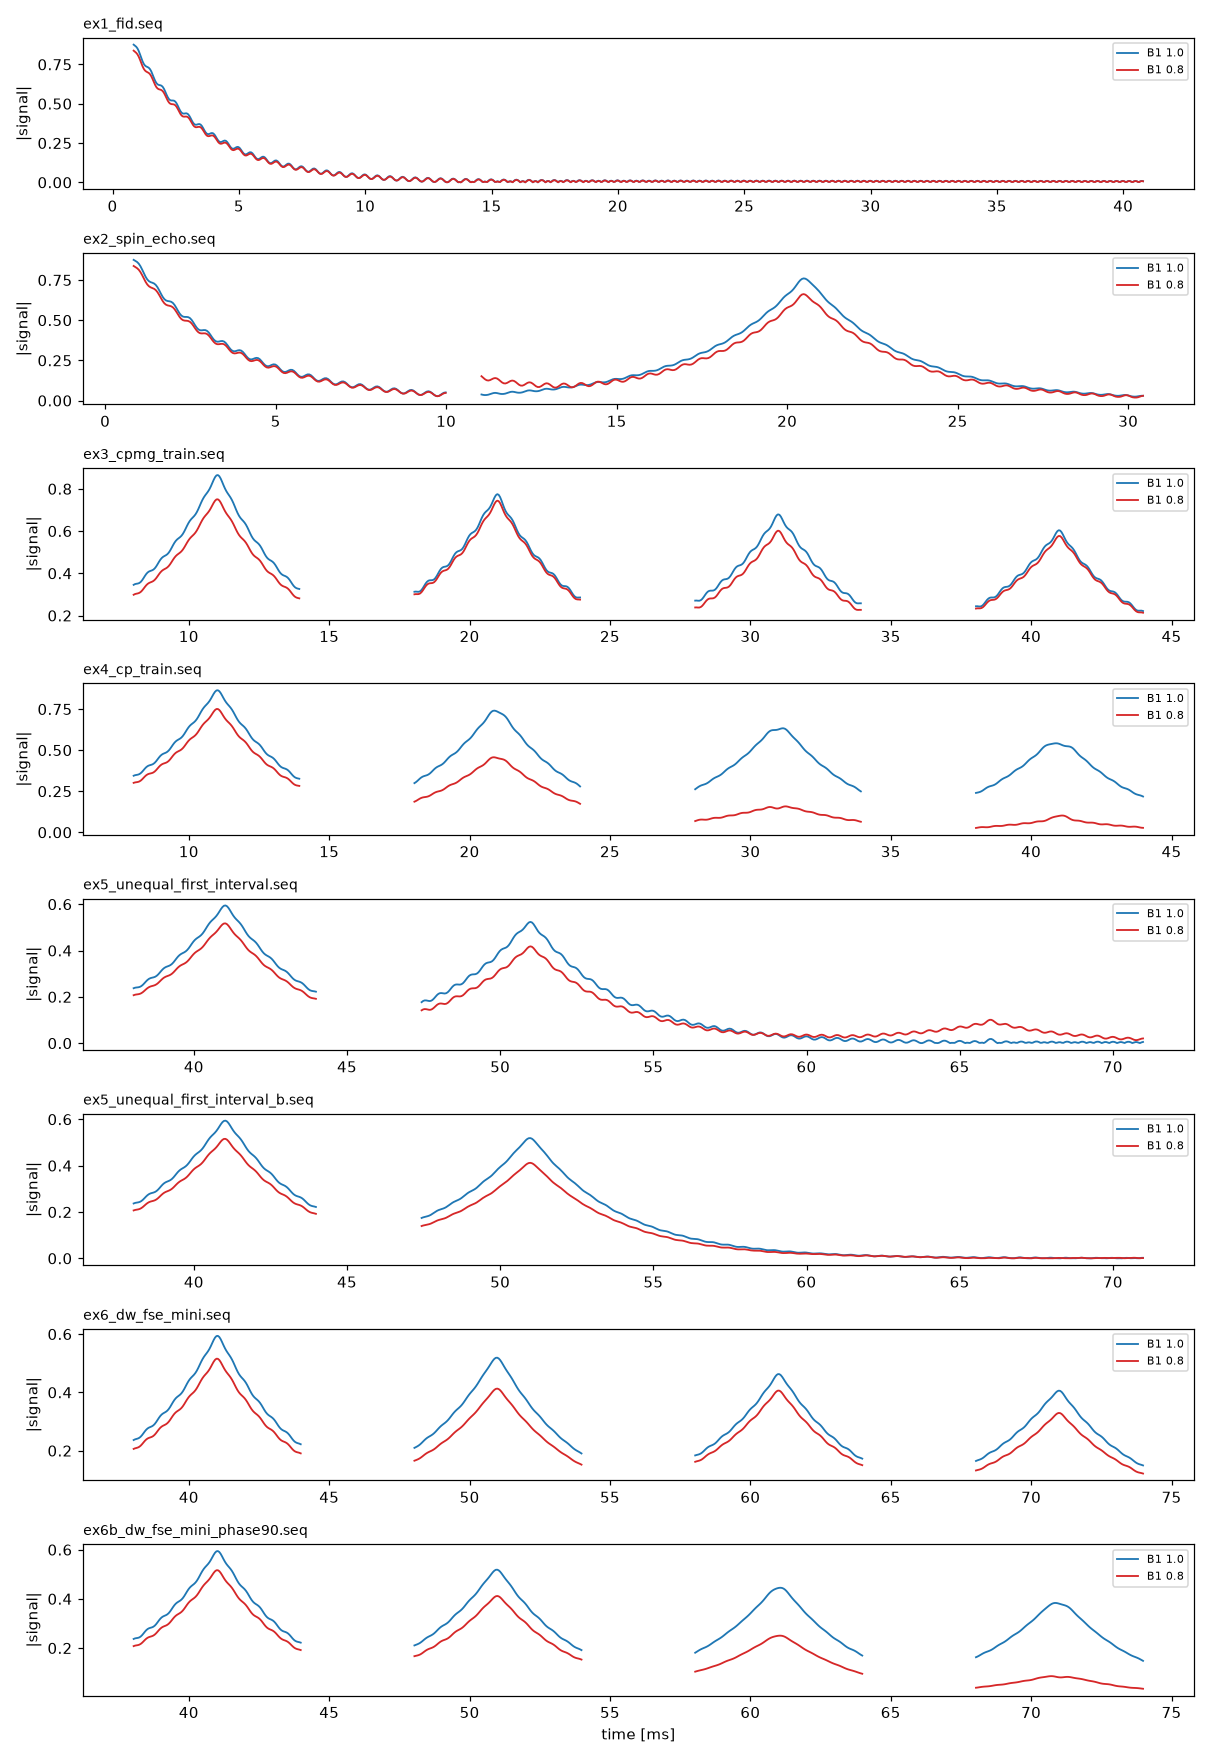
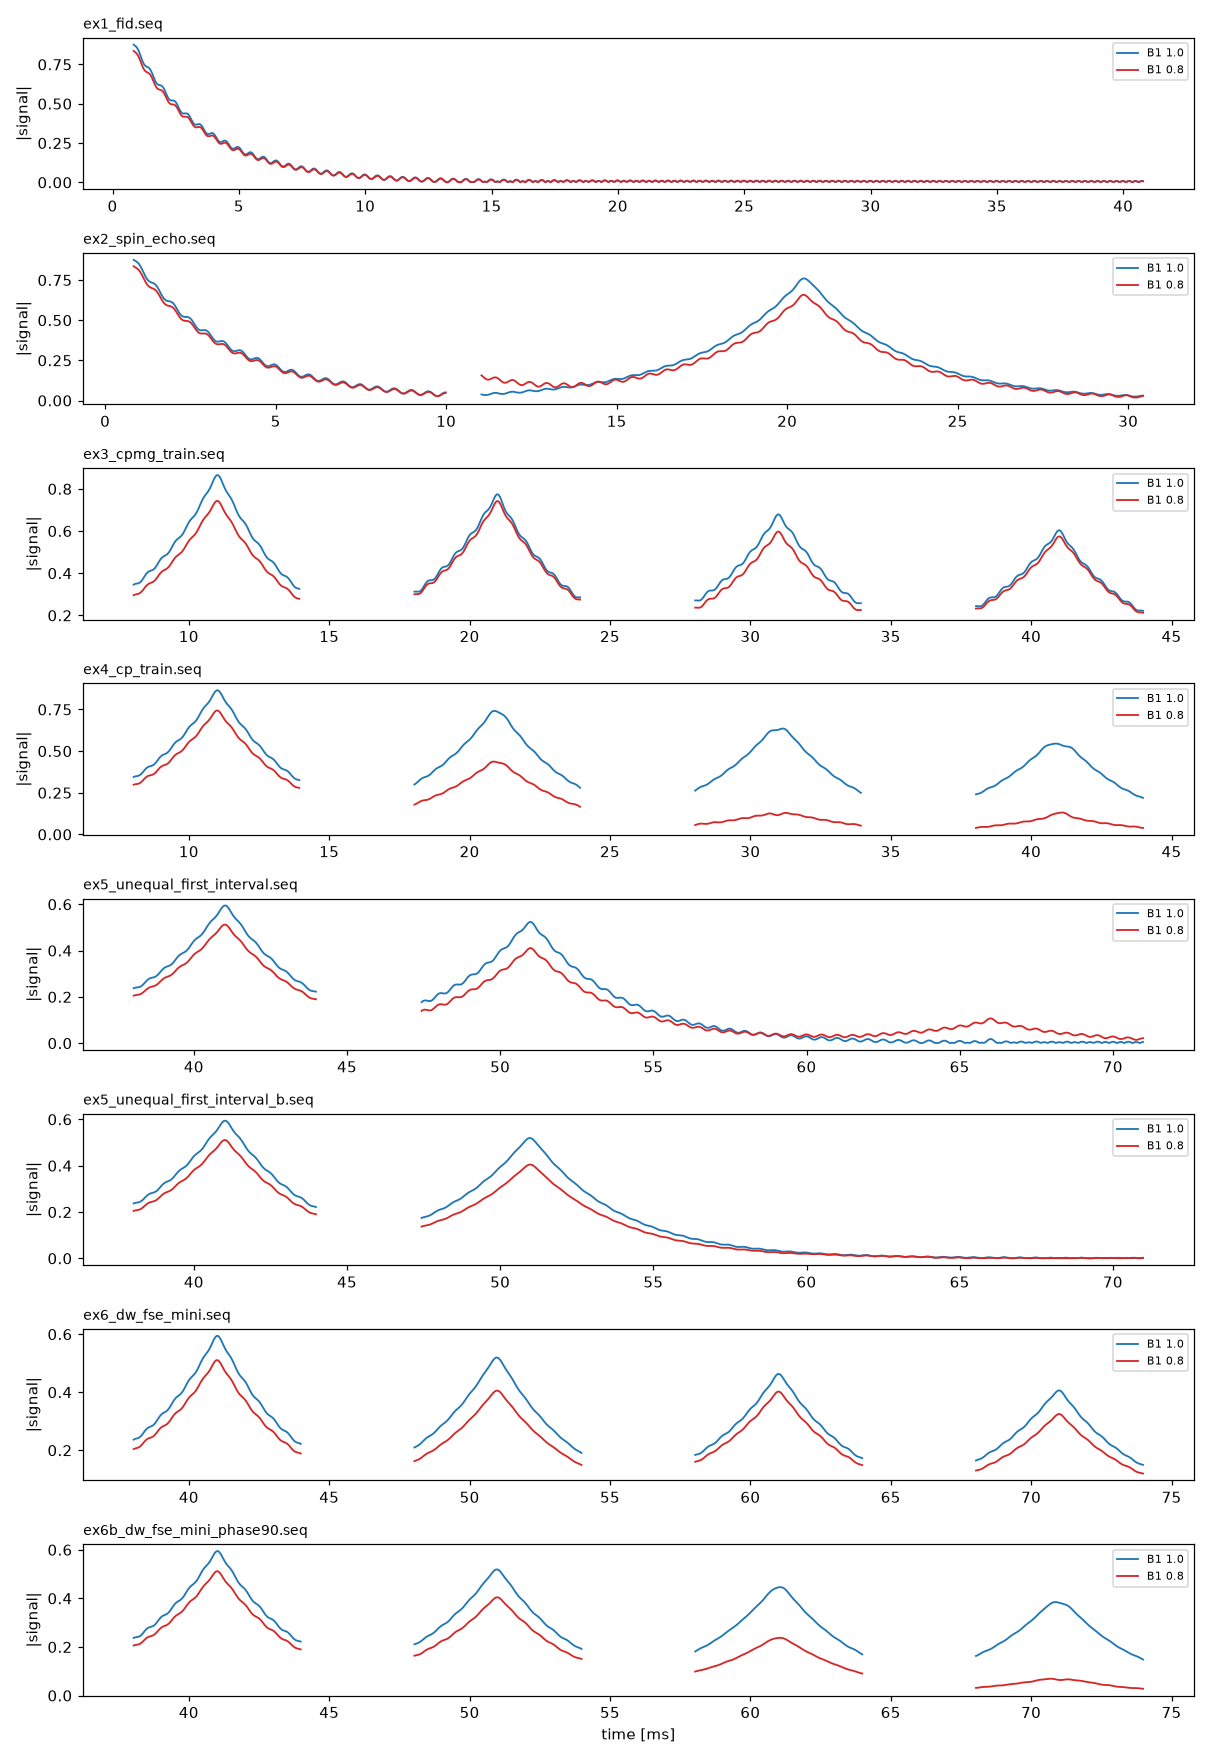
simulate: exact RF area per time step (fixes ~10% flip error of hard pulses)
Point-sampling B1 at step centres counted a partial step at each RF edge, so
200 us block pulses got ~198 deg at 10 us steps. That tipped part of the
crusher helix into Mz (the 4 cycles/mm Mz ripple on odd echoes of ex3).
B1 is now averaged over each step from the cumulative pulse area. Tapered
sinc pulses (DW-FSE) are unchanged; example amplitudes updated.

Claude-Session: https://claude.ai/code/session_01DJ1bSqYpWMmENULe922MET

diff --git a/dwfse/simulate.py b/dwfse/simulate.py
@@ -85,6 +85,26 @@ def _rotate(mx, my, mz, bx, by, bz, dt):
             mz * c + cz * s + kz * kd * (1 - c))
 
 
+def _rf_step_average(rf, dt, nt):
+    """Complex B1 [Hz] averaged over each simulation step [k*dt, (k+1)*dt] of the block.
+    Exact pulse area (flip angle) for any step size: sample-centred uniform shapes are treated
+    as piecewise constant over their raster cells, corner-point shapes (block pulses) as
+    piecewise linear. Point-sampling instead over-counts a partial step at each RF edge
+    (about 10 % flip error for a 200 us hard pulse at 10 us steps)."""
+    t, sig = np.asarray(rf.t, float), np.asarray(rf.signal, complex)
+    d = np.diff(t)
+    if len(t) > 1 and np.allclose(d, d[0], rtol=1e-6) and abs(t[0] - d[0] / 2) < 1e-9:
+        edges = np.r_[t - d[0] / 2, t[-1] + d[0] / 2] + rf.delay
+        cum = np.r_[0, np.cumsum(sig * d[0])]
+    else:
+        edges = t + rf.delay
+        cum = np.r_[0, np.cumsum((sig[1:] + sig[:-1]) / 2 * d)] if len(t) > 1 else np.zeros(1, complex)
+    grid = np.arange(nt + 1) * dt
+    F = np.interp(grid, edges, cum.real, left=0, right=cum[-1].real) \
+        + 1j * np.interp(grid, edges, cum.imag, left=0, right=cum[-1].imag)
+    return np.diff(F) / dt
+
+
 def read_seq(seq_or_path):
     if isinstance(seq_or_path, pp.Sequence):
         return seq_or_path
@@ -177,9 +197,7 @@ def simulate(seq, b1=1.0, b0=0.0, T1=1.5, T2=0.08, T2prime=0.03, n=20000, voxel=
             dt = dur / nt
             tc = (np.arange(nt) + 0.5) * dt
             G = {ax: (np.interp(tc, *g[ax], left=0, right=0) if g[ax] is not None else np.zeros(nt)) for ax in 'xyz'}
-            trf = rf.t + rf.delay
-            inrf = (tc >= trf[0] - dt / 2) & (tc <= trf[-1] + dt / 2)
-            B1 = np.where(inrf, np.interp(tc, trf, rf.signal.real) + 1j * np.interp(tc, trf, rf.signal.imag), 0)
+            B1 = _rf_step_average(rf, dt, nt)
             B1 = B1 * b1 * np.exp(1j * (rf.phase_offset + 2 * np.pi * rf.freq_offset * (tc - rf.delay)))
             e2, e1 = np.exp(-dt / T2), np.exp(-dt / T1)
             for k in range(nt):

diff --git a/examples/README.md b/examples/README.md
@@ -19,11 +19,11 @@ The amplitudes below come from the project simulator (`dwfse/simulate.py`): T1 1
 |---|---|---|---|
 | `ex1_fid` | 90x, then 40 ms ADC | FID decays with T2* (T2′ + T2) | — |
 | `ex2_spin_echo` | 90x – 10 ms – 180y | echo at 20 ms recovers T2′ loss; height ≈ e^(−TE/T2) | 0.76 → 0.66 |
-| `ex3_cpmg_train` | 90x, 4 × crushed 180y, ESP 10 ms | **CPMG**: under B1 error echo 2 ≈ echo 1, because stimulated echoes add in phase | 0.87 0.78 0.68 0.60 → 0.75 0.74 0.60 0.58 |
-| `ex4_cp_train` | same, but 180x | **CP** (refocusing phase = excitation phase): under B1 error the train collapses | 0.87 0.74 0.63 0.54 → 0.75 0.46 0.16 0.10 |
-| `ex5_unequal_first_interval` | 90 – 20 ms – 180 – 20 ms – echo 1 – 5 ms – 180 | first interval ≠ later one. The stimulated echo leaves echo 2 and appears **20 ms after the 2nd 180** (66 ms), visible at B1 0.8 | echo 2: 0.52 → 0.42; peak at 66 ms ≈ 0.10 at B1 0.8 |
+| `ex3_cpmg_train` | 90x, 4 × crushed 180y, ESP 10 ms | **CPMG**: under B1 error echo 2 ≈ echo 1, because stimulated echoes add in phase | 0.87 0.78 0.68 0.60 → 0.74 0.74 0.60 0.58 |
+| `ex4_cp_train` | same, but 180x | **CP** (refocusing phase = excitation phase): under B1 error the train collapses | 0.87 0.74 0.64 0.55 → 0.74 0.44 0.13 0.13 |
+| `ex5_unequal_first_interval` | 90 – 20 ms – 180 – 20 ms – echo 1 – 5 ms – 180 | first interval ≠ later one. The stimulated echo leaves echo 2 and appears **20 ms after the 2nd 180** (66 ms), visible at B1 0.8 | echo 2: 0.52 → 0.41; peak at 66 ms ≈ 0.10 at B1 0.8 |
 | `ex5_..._b` | same, first crusher pair half size (like PPR 2754 vs 5482) | the stimulated echo at 66 ms is now spoiled, as in your DW-FSE | 66 ms peak gone |
-| `ex6_dw_fse_mini` | Stejskal–Tanner lobes on x around 180₁ (TE1 40 ms), then 3 echoes at ESP 10 ms | the real structure: long DW first echo, short train. Static spins: still CPMG-like for echoes 2–4 | 0.59 0.52 0.46 0.41 → 0.52 0.41 0.41 0.33 |
-| `ex6b_dw_fse_mini_phase90` | identical, excitation phase 90° | stands in for the random phase that motion adds during the lobes when b > 0. Now the train is CP-like and collapses under B1 error. This is why DW-FSE needs non-CPMG schemes | 0.59 0.52 0.45 0.38 → 0.52 0.41 0.25 0.09 |
+| `ex6_dw_fse_mini` | Stejskal–Tanner lobes on x around 180₁ (TE1 40 ms), then 3 echoes at ESP 10 ms | the real structure: long DW first echo, short train. Static spins: still CPMG-like for echoes 2–4 | 0.59 0.52 0.46 0.41 → 0.51 0.41 0.40 0.33 |
+| `ex6b_dw_fse_mini_phase90` | identical, excitation phase 90° | stands in for the random phase that motion adds during the lobes when b > 0. Now the train is CP-like and collapses under B1 error. This is why DW-FSE needs non-CPMG schemes | 0.60 0.52 0.45 0.39 → 0.51 0.41 0.24 0.07 |
 
 Suggested order: ex2 → ex3 vs ex4 (why the refocusing phase matters) → ex5 vs ex5_b (why the first interval and crushers decide which pathways survive) → ex6 vs ex6b (why diffusion-induced phase breaks CPMG). Then go back to `dwfse_minimal.seq`. It is ex6 plus slice selection, imaging gradients, and the PPL timing.

diff --git a/REPORT.md b/REPORT.md
@@ -30,7 +30,7 @@ The current PPR is a short test protocol: ETL 2, TE = ESP = 36 ms, b = 0, 1 slic
    - With TE = ESP and equal crushers it was 32 % above, because the stimulated echo adds back.
    - Over B1 0.7–1.2, echo 2 varied 2.5× with the DW-FSE timing vs 1.6× CPMG-matched.
    - The current test PPR has TE = ESP but still unequal crushers; `dw.py epg` shows echo 2 is still 99.9 % primary pathway at B1 0.8.
-3. **The b = 0 tests hide the main DW-FSE problem.** With b > 0, motion during the diffusion lobes adds a random phase that breaks the CPMG phase relation. `examples/ex6b` mimics this with a 90° excitation phase: at B1 0.8 the later echoes collapse (0.41 → 0.09). The simulator has static spins, so it shows this only when the phase error is added deliberately.
+3. **The b = 0 tests hide the main DW-FSE problem.** With b > 0, motion during the diffusion lobes adds a random phase that breaks the CPMG phase relation. `examples/ex6b` mimics this with a 90° excitation phase: at B1 0.8 the later echoes collapse (0.41 → 0.07). The simulator has static spins, so it shows this only when the phase error is added deliberately.
 4. **RF pulse and slice thickness.** The vendor frame `3lobe_sinc_3kHz` is a truncated sinc (zero crossings every 333 µs, TBW 4); every sinc frame obeys bandwidth × duration = lobes + 1. The PPL sets the slice gradient for 71 % of the name bandwidth (2130 Hz), and the manual lists this frame as 2140 Hz. A plain truncated sinc therefore excites 1.42 mm (90°) / 0.82 mm (180°) instead of 1 mm. The 71 % may be a spin-echo-slice convention. The choice changes B1 results noticeably, so the RF model is a parameter (`sim_rf_model`, `sim_rf_apodization`).
 5. **b-values.** The PPL computes b with 39.69 instead of (2π)² = 39.48, so a requested 6000 s/mm² is 5962 from the lobes. The read prephaser and readout add +7 % (6380 at echo 1). b = 0 rows play DAC 1, not zero.
 6. **Smaller items:**
